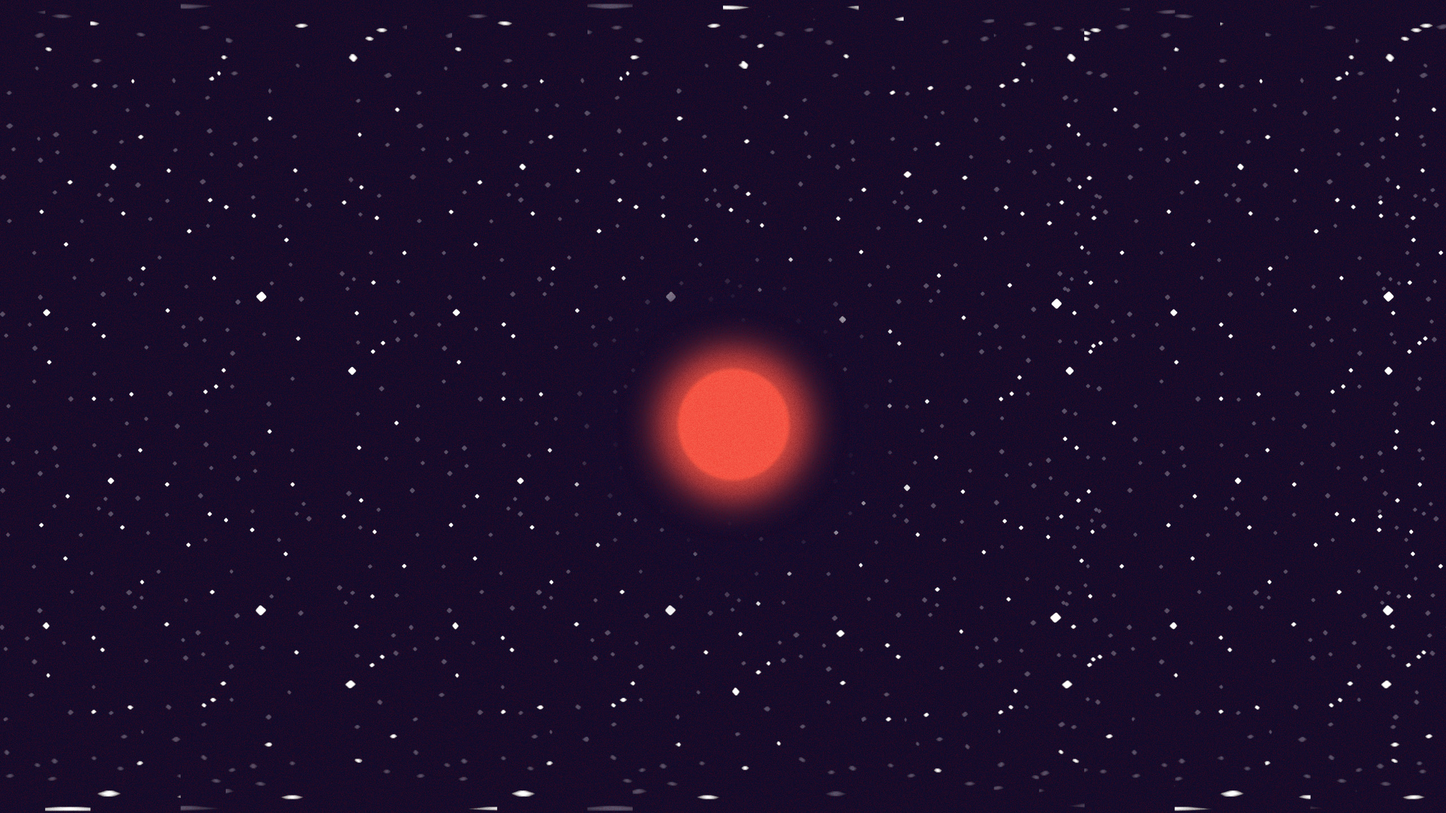
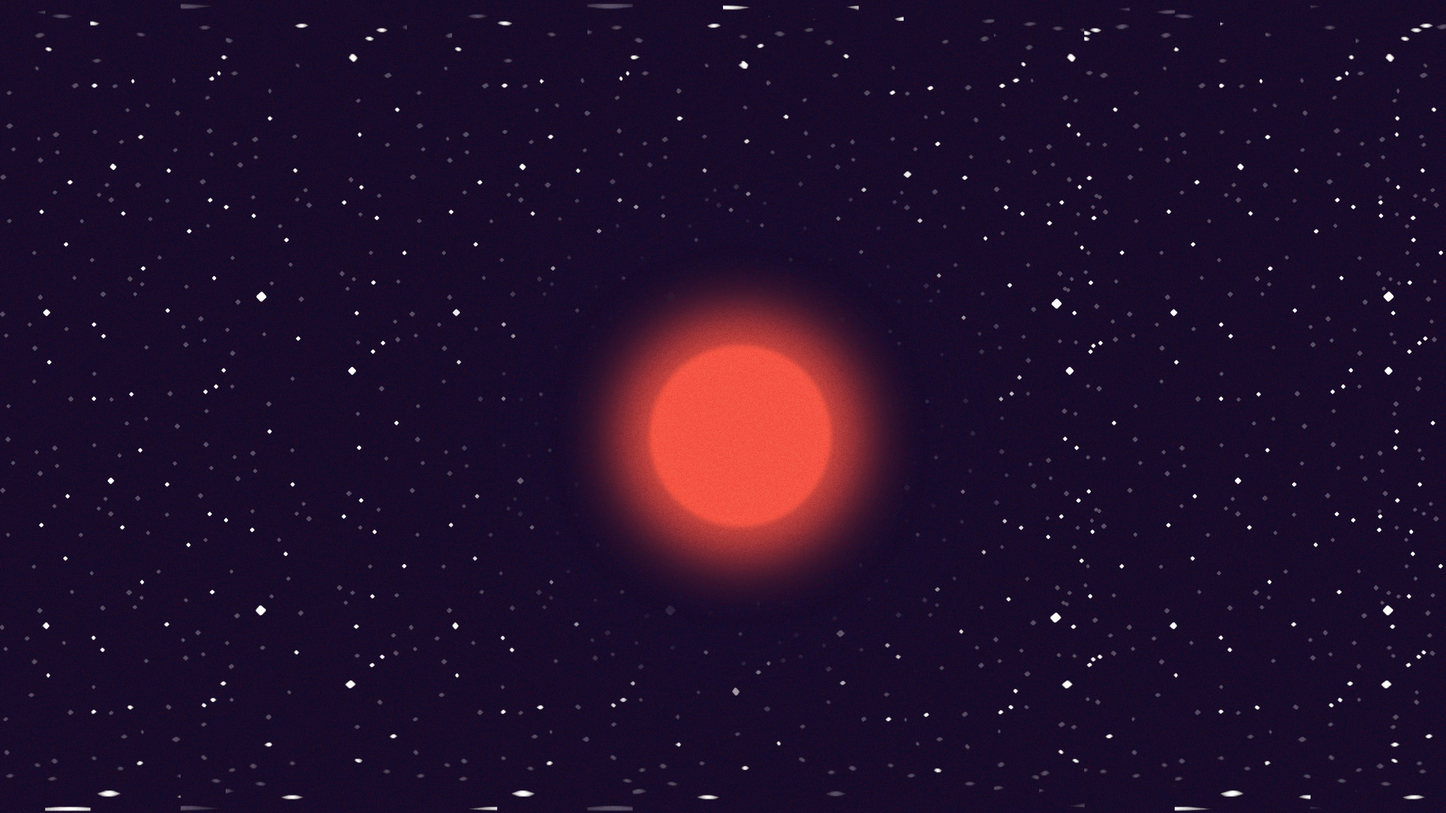
asdas
dada

Changed region(s): [[0.4059, 0.3438, 0.6245, 0.75]]

diff --git a/caletta/index.html b/caletta/index.html
@@ -10,7 +10,7 @@
         <a-asset-item id="planet-mtl" src="planet.mtl"></a-asset-item>
       </a-assets>
       <a-light type="ambient" color="#fff"></a-light>
-      <a-entity rotation="0 0 0" animation="property: rotation; to: 0 360 0; loop: true; dur: 80000; easing: linear;">
+      <a-entity rotation="0 -110 0" animation="property: rotation; to: 0 250 0; loop: true; dur: 80000; easing: linear;">
         <a-camera look-controls-enabled="false" position="5 1 1" rotation="-5 80 0" fov="60"></a-camera>
       </a-entity>
       
